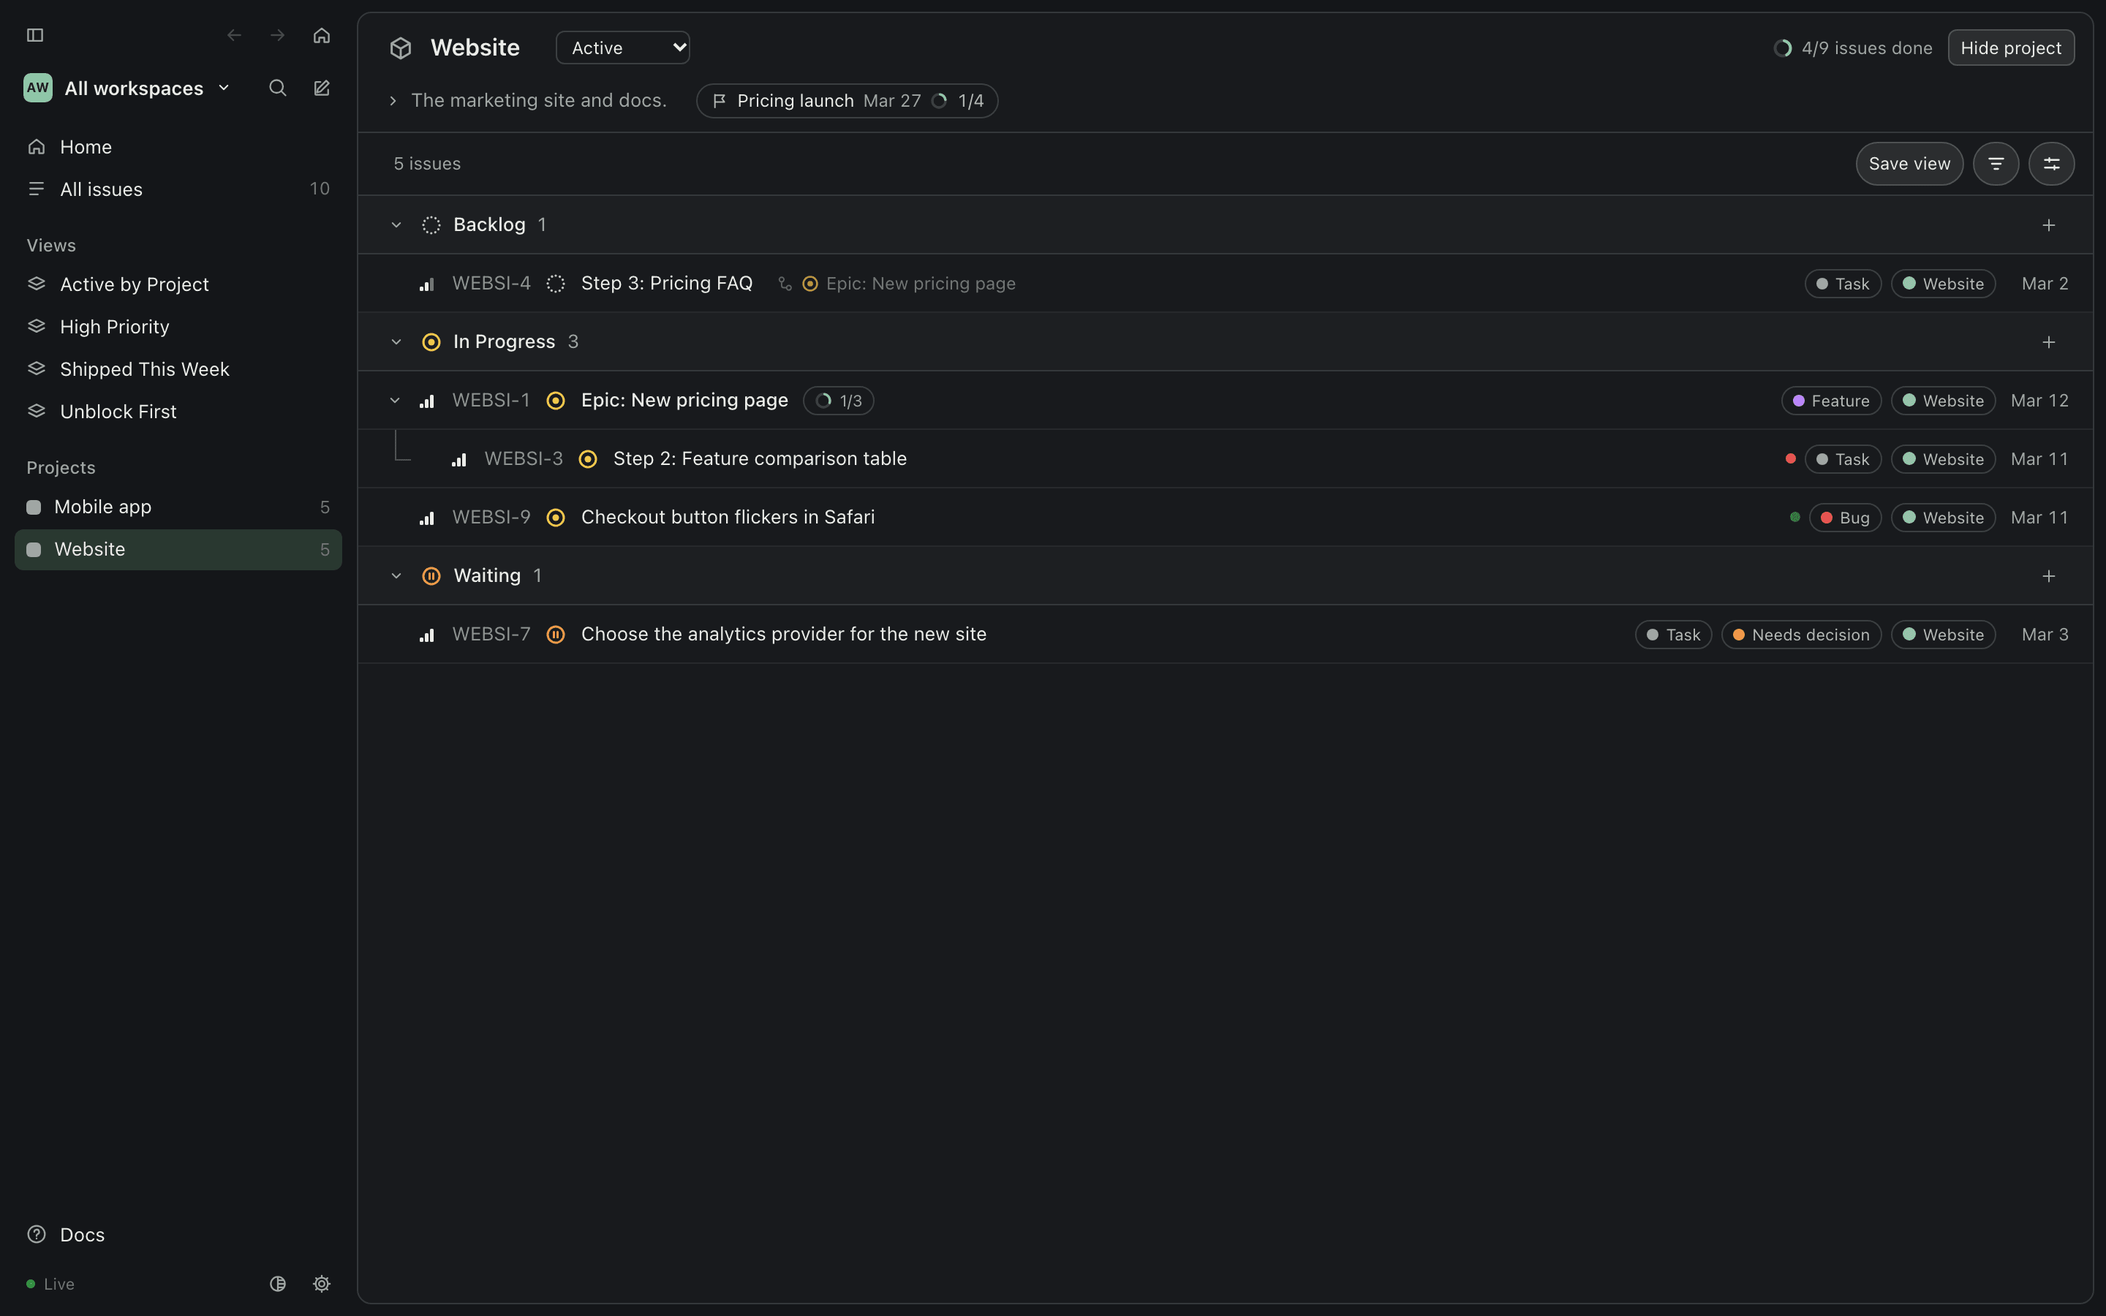
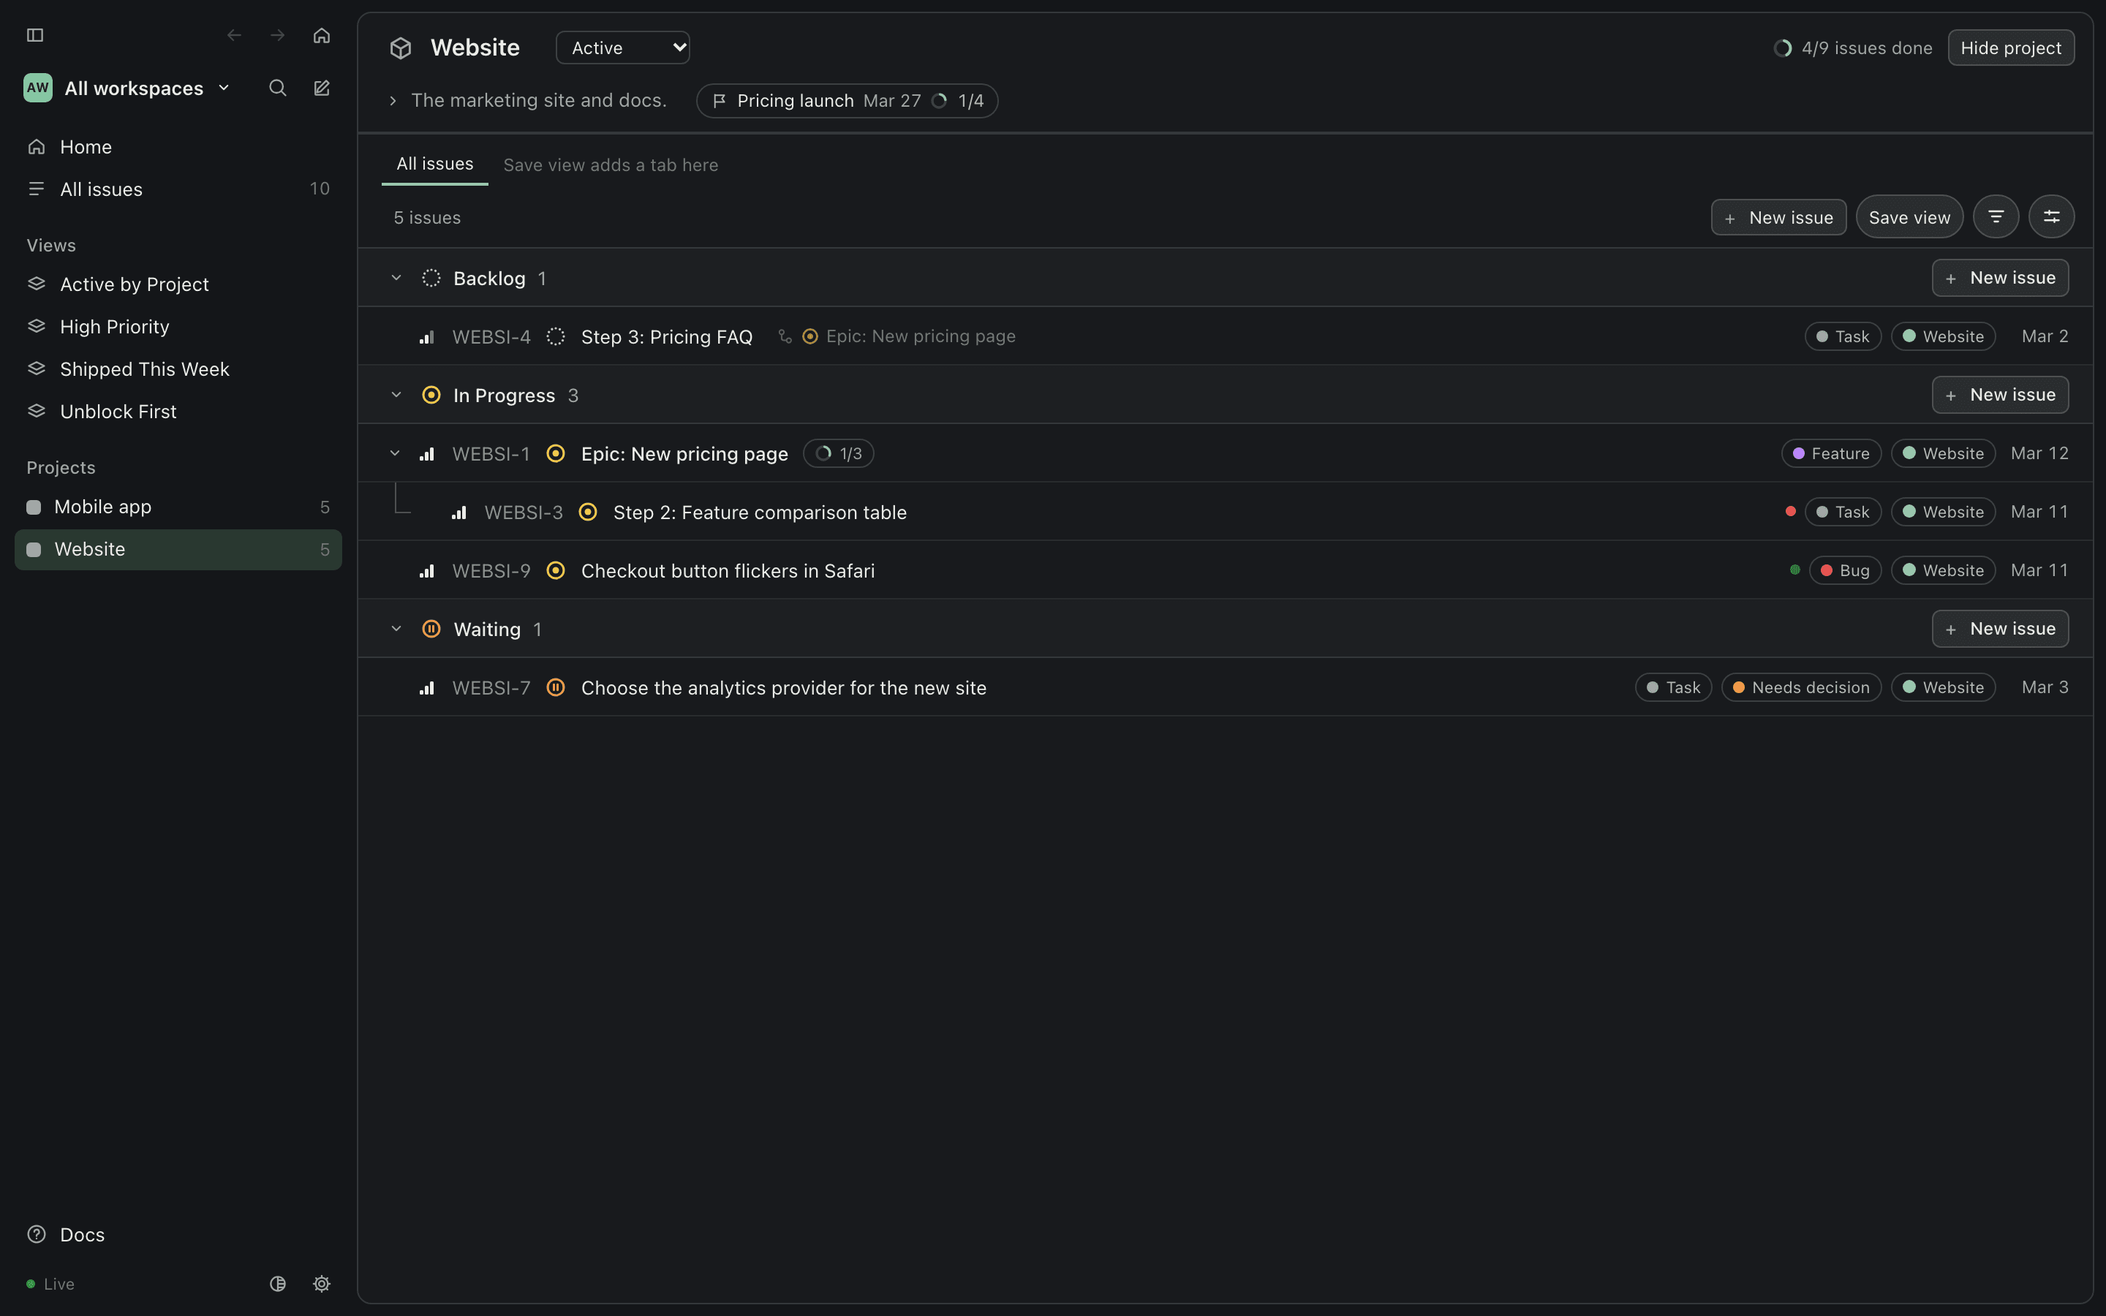
feat(ui): project view tabs are always there; New issue is a labelled button
A project page always shows its tab row, and a system-wide view that
filters to that project alone is offered as a tab. Lists get a
"+ New issue" button in the toolbar and on each status group; it
starts the dialog in the list's project and the group's status, which
the old icon did not.

diff --git a/ui/views/ViewScreen.tsx b/ui/views/ViewScreen.tsx
@@ -11,7 +11,7 @@ import type { Filter, IssueSummary, Project } from '../../src/model'
 import { callTool, inScope, isHiddenProject, projectName, setProjectHidden, setScope, useScope, useTracker, type ViewDef } from '../client'
 import { ConceptIcon } from '../components/icons'
 import { Popover } from '../components/Popover'
-import { navigate, replaceRoute, type Route } from '../router'
+import { href, navigate, replaceRoute, type Route } from '../router'
 import { applyView, DEFAULT_DISPLAY, dropPatch, sameView, timeInStatus, viewFromQuery, viewToQuery, type ViewState } from '../viewModel'
 import { BoardView } from './BoardView'
 import { DisplayMenu } from './DisplayMenu'
@@ -69,6 +69,8 @@ export function ViewScreen({ title, icon, saved, defaults, base, locked, query, 
   const ctx = useMemo(() => ({ statuses: state.config?.statuses ?? [], labels: state.labels, projects, byId }), [state.config, state.labels, projects, byId])
   const effective = useMemo(() => ({ filter: { ...current.filter, ...base }, display: current.display }), [current, base])
   const result = useMemo(() => applyView(pool, effective, ctx), [pool, effective, ctx])
+  /** A list of one project: "New issue" starts in it. */
+  const newProject = effective.filter.project?.length === 1 ? effective.filter.project[0] : undefined
   // When the switcher hides everything, say so (otherwise an empty view looks broken).
   const outOfScope = useMemo(() => (result.total || scope.kind === 'all' || issues ? 0 : applyView([...state.issues.values()], effective, ctx).total), [result.total, scope, issues, state.issues, effective, ctx])
   // A filter naming a hidden project (a saved view, an old link): say so, rather than look empty or incomplete.
@@ -136,6 +138,7 @@ export function ViewScreen({ title, icon, saved, defaults, base, locked, query, 
           <span className="muted count-label">{result.total} {result.total === 1 ? 'issue' : 'issues'}</span>
         </div>
         <div className="view-tools">
+          <a className="ghost-btn new-issue" href={href({ name: 'new', ...(newProject ? { project: newProject } : {}) })}><span className="plus">+</span> New issue</a>
           {changed && saved && <button className="ghost-btn" onClick={() => replaceRoute(routeFor(undefined))}>Reset</button>}
           {changed && saved && <button className="primary small-btn" onClick={() => void saveChanges()}>Save changes</button>}
           {!saved && <SaveAs onSave={saveAs} changed={changed} />}
@@ -150,7 +153,7 @@ export function ViewScreen({ title, icon, saved, defaults, base, locked, query, 
         : outOfScope > 0 ? <div className="view-empty muted">No issues here in the current workspace — {outOfScope} {outOfScope === 1 ? 'issue matches' : 'issues match'} in all workspaces. <button className="ghost-btn inline" onClick={() => setScope({ kind: 'all' })}>Show all workspaces</button></div>
         : current.display.layout === 'board'
           ? <BoardView groups={result.groups} hidden={result.hidden} display={current.display} ctx={ctx} config={state.config} cells={cells} onDrop={onDrop} />
-          : <ListView groups={result.groups} display={current.display} byId={byId} config={state.config} cells={cells} />}
+          : <ListView groups={result.groups} display={current.display} byId={byId} config={state.config} cells={cells} {...(newProject ? { project: newProject } : {})} />}
       {family.dialog}
       {toast && <div className="toast" role="alert">{toast}<button className="icon-button" aria-label="Dismiss" onClick={() => setToast('')}>×</button></div>}
     </section>

diff --git a/ui/router.ts b/ui/router.ts
@@ -1,10 +1,10 @@
-/** Hash router: `#/`, `#/new` (`?parent=Q-269` prefills the parent), `#/issue/:id`, `#/issues`, `#/view/:slug`, `#/project/:slug` and `#/project/:slug/view/:view` (a project's own view; those four keep view state in `?…`), `#/search?q=`, `#/settings`, `#/settings/:tab`. */
+/** Hash router: `#/`, `#/new` (`?parent=Q-269` prefills the parent, `?project=` and `?status=` those fields), `#/issue/:id`, `#/issues`, `#/view/:slug`, `#/project/:slug` and `#/project/:slug/view/:view` (a project's own view; those four keep view state in `?…`), `#/search?q=`, `#/settings`, `#/settings/:tab`. */
 import { useSyncExternalStore } from 'react'
 import { isSettingsTab, type SettingsTab } from './settingsModel'
 
 export type Route =
   | { name: 'home' }
-  | { name: 'new'; parent?: string }
+  | { name: 'new'; parent?: string; project?: string; status?: string }
   | { name: 'issue'; id: string }
   | { name: 'issues'; query?: string }
   | { name: 'view'; slug: string; query?: string }
@@ -28,8 +28,9 @@ export function parseRoute(hash: string): Route {
   const [head, arg, ...rest] = parts
   if (rest.length === 0) {
     if (head === 'new' && arg === undefined) {
-      const parent = new URLSearchParams(query).get('parent')?.trim().toUpperCase()
-      return parent ? { name: 'new', parent } : { name: 'new' }
+      const p = new URLSearchParams(query)
+      const parent = p.get('parent')?.trim().toUpperCase(), project = p.get('project')?.trim(), status = p.get('status')?.trim()
+      return { name: 'new', ...(parent ? { parent } : {}), ...(project ? { project } : {}), ...(status ? { status } : {}) }
     }
     if (head === 'issues' && arg === undefined) return withQuery({ name: 'issues' }, query)
     if (head === 'search' && arg === undefined) return { name: 'search', q: new URLSearchParams(query).get('q') ?? '' }
@@ -49,7 +50,13 @@ export function parseRoute(hash: string): Route {
 export function href(r: Route): string {
   switch (r.name) {
     case 'home': return '#/'
-    case 'new': return r.parent ? `#/new?parent=${encodeURIComponent(r.parent)}` : '#/new'
+    case 'new': {
+      const p = new URLSearchParams()
+      if (r.parent) p.set('parent', r.parent)
+      if (r.project) p.set('project', r.project)
+      if (r.status) p.set('status', r.status)
+      return `#/new${q(p.toString())}`
+    }
     case 'issue': return `#/issue/${encodeURIComponent(r.id)}`
     case 'issues': return `#/issues${q(r.query)}`
     case 'view': return `#/view/${encodeURIComponent(r.slug)}${q(r.query)}`

diff --git a/ui/views/NewIssue.tsx b/ui/views/NewIssue.tsx
@@ -13,19 +13,23 @@ export function newIssueArgs(f: { title: string; project: string; labels: string
   return args
 }
 
-/** `parent` (from `#/new?parent=Q-269`, the issue page's "Add sub-issue") prefills the parent and its project; creating then returns to the parent. */
-export function NewIssueDialog({ onClose, parent: parentId }: { onClose: () => void; parent?: string }) {
+/**
+ * `parent` (from `#/new?parent=Q-269`, the issue page's "Add sub-issue") prefills the parent and its project; creating
+ * then returns to the parent. `project` and `status` (a list's "New issue") prefill those fields.
+ */
+export function NewIssueDialog({ onClose, parent: parentId, project: fromProject, status: fromStatus }: { onClose: () => void; parent?: string; project?: string; status?: string }) {
   const state = useTracker()
   const scope = useScope()
   const parentProject = parentId ? state.issues.get(parentId)?.project : undefined
   const defaultProject = parentProject ? parentProject
+    : fromProject ? fromProject
     : scope.kind === 'project' ? scope.slug
     : scope.kind === 'workspace' ? (state.config?.workspaces[scope.name] ?? '') : ''
   const [title, setTitle] = useState('')
   const [project, setProject] = useState(defaultProject)
   const [labels, setLabels] = useState<string[]>([])
   const [labelDraft, setLabelDraft] = useState('')
-  const [status, setStatus] = useState('Todo')
+  const [status, setStatus] = useState(fromStatus ?? 'Todo')
   const [priority, setPriority] = useState(0)
   const [parent, setParent] = useState(parentId ?? '')
   const [description, setDescription] = useState('')

diff --git a/tests/ui/projectPage.test.ts b/tests/ui/projectPage.test.ts
@@ -71,10 +71,11 @@ describe('views that belong to a project', () => {
   const views = [
     { slug: 'web-zeta', name: 'Zeta', project: 'web' }, { slug: 'web-alpha', name: 'Alpha', project: 'web', favorite: true },
     { slug: 'all-bugs', name: 'All bugs' }, { slug: 'gone-x', name: 'Orphan', project: 'gone' }, { slug: 'app-a', name: 'App a', project: 'app' },
+    { slug: 'web-board', name: 'Web board', filter: { project: ['web'] } }, { slug: 'two', name: 'Two projects', filter: { project: ['web', 'app'] } },
   ]
   const has = (slug: string) => slug === 'web' || slug === 'app'
-  test('projectViews: only that project\'s, by name', () => {
-    expect(projectViews(views, 'web').map((v) => v.slug)).toEqual(['web-alpha', 'web-zeta'])
+  test('projectViews: its own and system-wide ones filtered to it alone, by name', () => {
+    expect(projectViews(views, 'web').map((v) => v.slug)).toEqual(['web-alpha', 'web-board', 'web-zeta'])
     expect(projectViews(views, 'none')).toEqual([])
   })
   test('viewRoute: inside its project, or on its own when system-wide or the project is gone', () => {
@@ -83,6 +84,6 @@ describe('views that belong to a project', () => {
     expect(viewRoute(views[3]!, has)).toEqual({ name: 'view', slug: 'gone-x' })
   })
   test('sidebarViews: system-wide ones, starred project views and orphans; starred first', () => {
-    expect(sidebarViews(views, has).map((v) => v.slug)).toEqual(['web-alpha', 'all-bugs', 'gone-x'])
+    expect(sidebarViews(views, has).map((v) => v.slug)).toEqual(['web-alpha', 'all-bugs', 'gone-x', 'two', 'web-board'])
   })
 })

diff --git a/ui/views/ListView.tsx b/ui/views/ListView.tsx
@@ -28,12 +28,14 @@ export function GroupIcon({ by, group, config }: { by: string; group: { key: str
   return null
 }
 
-export function ListView({ groups, display, byId, config, cells }: {
+export function ListView({ groups, display, byId, config, cells, project }: {
   groups: ViewGroup[]
   display: ViewDisplay
   byId: ReadonlyMap<string, IssueSummary>
   config: Config | null
   cells: CellCtx
+  /** The one project this list is of, if any: "New issue" starts in it. */
+  project?: string
 }) {
   const [collapsed, setCollapsed] = useState<Set<string>>(() => new Set())
   const scroller = useRef<HTMLDivElement>(null)
@@ -139,7 +141,7 @@ export function ListView({ groups, display, byId, config, cells }: {
                 <GroupIcon by={display.groupBy} group={it.group} config={config} />
                 <span className="group-label">{it.group.label}</span>
                 <span className="count">{it.group.issues.length}</span>
-                {display.groupBy === 'status' && <a className="icon-button group-add" href={href({ name: 'new' })} aria-label={`New issue in ${it.group.label}`}><Icon name="plus" size={12} /></a>}
+                {display.groupBy === 'status' && <a className="ghost-btn group-add" href={href({ name: 'new', status: it.group.key, ...(project ? { project } : {}) })} aria-label={`New issue in ${it.group.label}`}><span className="plus">+</span> New issue</a>}
               </div>
             )
           }

diff --git a/ui/projectPage.ts b/ui/projectPage.ts
@@ -54,11 +54,15 @@ export function milestoneOrder(orderBy: string, usual: string, picking: boolean)
 
 // ---------- views that belong to a project ----------
 
-interface OwnedView { slug: string; name: string; project?: string; favorite?: boolean }
+interface OwnedView { slug: string; name: string; project?: string; favorite?: boolean; filter?: { project?: string[] } }
 
-/** A project's own views, by name. */
+/**
+ * The views offered on a project's page, by name: its own, and system-wide ones filtered to this project alone
+ * (those stay in the sidebar too).
+ */
 export function projectViews<V extends OwnedView>(views: readonly V[], project: string): V[] {
-  return views.filter((v) => v.project === project).sort((a, b) => a.name.localeCompare(b.name))
+  const about = (v: V) => (v.project ? v.project === project : v.filter?.project?.length === 1 && v.filter.project[0] === project)
+  return views.filter(about).sort((a, b) => a.name.localeCompare(b.name))
 }
 
 /** Where a view opens: inside its project's page, or on its own when it is system-wide or its project is gone. */

diff --git a/ui/views/ProjectPage.tsx b/ui/views/ProjectPage.tsx
@@ -357,12 +357,13 @@ export function ProjectPage({ slug, view, query, routeQuery }: { slug: string; v
           <Documents project={project} ctx={ctx} />
         </div>
       )}
-      {views.length > 0 && (
+      {(
         <nav className="view-tabs" aria-label="Views of this project">
           <a href={href({ name: 'project', slug })} className={active ? '' : 'on'} aria-current={active ? undefined : 'page'}>All issues</a>
           {views.map((v) => (
             <a key={v.slug} href={href({ name: 'project', slug, view: v.slug })} className={v.slug === active?.slug ? 'on' : ''} aria-current={v.slug === active?.slug ? 'page' : undefined}>{v.name}</a>
           ))}
+          {views.length === 0 && <span className="view-tabs-hint">Save view adds a tab here</span>}
         </nav>
       )}
       <ViewScreen key={`project:${slug}:${active?.slug ?? ''}`} title={project.name} {...(active ? { saved: active } : { defaults: BASE })} base={{ project: [slug] }} locked={['project']} query={query} routeFor={routeQuery} embedded saveProject={slug}

diff --git a/tests/ui/router.test.ts b/tests/ui/router.test.ts
@@ -18,6 +18,8 @@ describe('parseRoute', () => {
     expect(parseRoute('#/issues?v=1&layout=board')).toEqual({ name: 'issues', query: 'v=1&layout=board' })
     expect(parseRoute('#/view/acme-app?v=1')).toEqual({ name: 'view', slug: 'acme-app', query: 'v=1' })
     expect(parseRoute('#/project/support?v=1')).toEqual({ name: 'project', slug: 'support', query: 'v=1' })
+    expect(parseRoute('#/new?project=web&status=In%20Progress')).toEqual({ name: 'new', project: 'web', status: 'In Progress' })
+    expect(href({ name: 'new', parent: 'Q-1', project: 'web', status: 'In Progress' })).toBe('#/new?parent=Q-1&project=web&status=In+Progress')
     expect(parseRoute('#/project/support/view/support-backlog')).toEqual({ name: 'project', slug: 'support', view: 'support-backlog' })
     expect(parseRoute('#/project/support/view/a%20b?v=1')).toEqual({ name: 'project', slug: 'support', view: 'a b', query: 'v=1' })
     expect(href({ name: 'project', slug: 'support', view: 'a b', query: 'v=1' })).toBe('#/project/support/view/a%20b?v=1')

diff --git a/ui/styles.css b/ui/styles.css
@@ -735,6 +735,7 @@ span.tree-toggle { transform: none; }
 .view-tabs a { padding: 5px 10px; border-radius: var(--radius) var(--radius) 0 0; border-bottom: 2px solid transparent; color: var(--muted); font-size: 12px; white-space: nowrap; text-decoration: none; }
 .view-tabs a:hover { color: var(--text); background: var(--hover); }
 .view-tabs a.on { color: var(--text); border-bottom-color: var(--accent); }
+.view-tabs-hint { align-self: center; margin-left: 8px; color: var(--faint); font-size: 12px; }
 .small-btn { padding: 3px 10px; font-size: 12px; }
 .popover { position: relative; }
 .tool-button {

diff --git a/ui/main.tsx b/ui/main.tsx
@@ -111,7 +111,7 @@ function App() {
       <main className="main">
         <Page route={background.current} />
       </main>
-      {route.name === 'new' && <NewIssueDialog key={route.parent ?? ''} parent={route.parent} onClose={closeNew} />}
+      {route.name === 'new' && <NewIssueDialog key={`${route.parent ?? ''}|${route.project ?? ''}|${route.status ?? ''}`} parent={route.parent} project={route.project} status={route.status} onClose={closeNew} />}
       {palette && <Palette mode={palette} onClose={() => setPalette(null)} />}
     </div>
   )

diff --git a/site/src/content/docs/use/daily-use.md b/site/src/content/docs/use/daily-use.md
@@ -146,10 +146,18 @@ each. If any one can't be changed, none are, and the bar says why. The selection
 make another; **Clear** or Esc clears it. Closing a selected parent takes its open sub-issues along, and the bar says
 how many before you confirm (see [Closing a parent and its sub-issues](#closing-a-parent-and-its-sub-issues)).
 
+### Adding an issue from a list
+
+**+ New issue** is in the toolbar of every list and board, and on each status group of a list. From a project's page,
+or a view of one project, the new issue starts in that project; from a status group it starts in that status. **C**
+opens the same dialog from anywhere.
+
 ### Views of one project
 
-**Save view** on a project's page saves a view that belongs to that project. It shows as a tab above the project's
-list, next to **All issues**, and opens inside the project page, so the project's header and milestone chips stay.
+A project's page has a row of tabs above its list: **All issues**, then one per view of that project.
+**Save view** on the page saves a view that belongs to the project. It shows as a tab and opens inside the project
+page, so the project's header and milestone chips stay. A system-wide view that filters to this project alone is
+offered as a tab too, and stays in the sidebar.
 It is not added to the sidebar's **Views** list unless you star it; a starred one is listed there as
 "View · Project". The command bar (⌘K) finds it under the same name. **Save view** anywhere else (All issues, a
 filter you built) saves a system-wide view, listed in the sidebar.
